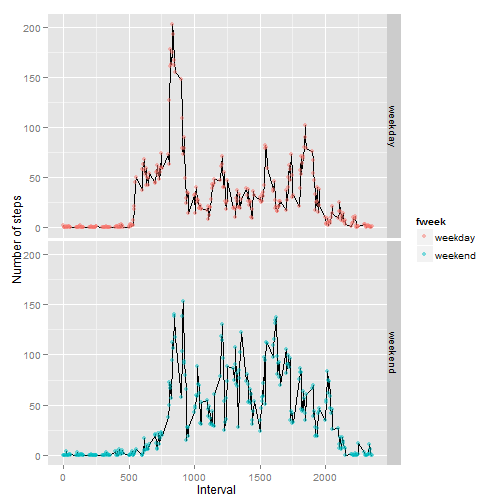
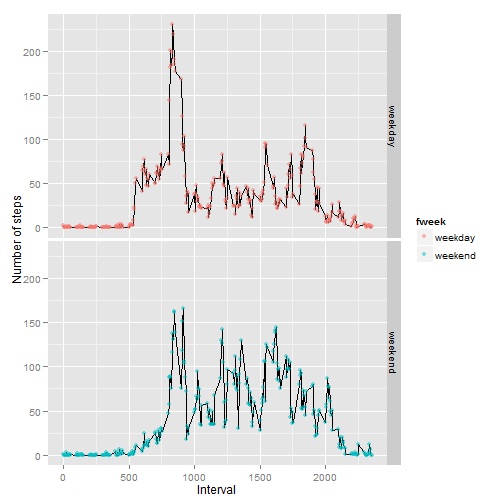
changes to final

diff --git a/PA1_template.html b/PA1_template.html
@@ -205,10 +205,10 @@ median_steps&lt;-median(as.vector(total))
 <h2>What is the average daily activity pattern?</h2>
 
 <pre><code class="r">average_activity&lt;-tapply(data_preprocess$steps,data_preprocess$interval,mean,simplify=FALSE);
-plot(names(average_activity),average_activity,type=&quot;l&quot;,xaxt = &quot;n&quot;,xlab=&quot;interval&quot;,ylab=&quot;average steps&quot;);
+plot(names(average_activity),average_activity,type=&quot;l&quot;,xlab=&quot;interval&quot;,ylab=&quot;average steps&quot;);
 </code></pre>
 
[2 lines of base64/hex data omitted]
 
 <h3>The maximum number of steps is with interval of 835</h3>
 
@@ -216,26 +216,41 @@ plot(names(average_activity),average_activity,type=&quot;l&quot;,xaxt = &quot;n&
 
 <pre><code class="r">ip_missing&lt;-nrow(data)-sum(complete.cases(data))
 data_without_NA&lt;-data
-#replace NA&#39;s with 0.
-data_without_NA[!complete.cases(data_without_NA$steps),1]&lt;-0;
+#replace NA&#39;s with average daily activity pattern.
+df&lt;-data.frame(interval=names(average_activity),steps=average_activity)
+count&lt;-0;
+for(i in 1:nrow(data_without_NA)){
+    if(is.na(data_without_NA$steps[i])){
+      for(j in 1:nrow(df)){
+        if(df$interval[j]==data_without_NA$interval[i]){
+          count=count+1;
+          data_without_NA$steps[i]&lt;-as.numeric(df$steps[j]);     
+          break;
+        }        
+      }    
+    }
+  }
 total&lt;-tapply(data_without_NA$steps,data_without_NA$date,sum);
 plot(1:length(total),as.vector(total),type=&quot;h&quot;,col = &quot;green&quot;, lwd = 4,xlab=&quot;days&quot;,ylab=&quot;steps&quot;);
 </code></pre>
 
[2 lines of base64/hex data omitted]
 
 <pre><code class="r">mean_steps&lt;-mean(as.vector(total))
 median_steps&lt;-median(as.vector(total))
 </code></pre>
 
+<h3>We have replaced NA&#39;s in &ldquo;steps&rdquo; with average daily activity pattern.</h3>
+
 <h3>The number of missing values are 2304.</h3>
 
-<h3>The new mean is 9354.2295 and median is 1.0395 &times; 10<sup>4</sup>.</h3>
+<h3>The new mean is 1.0766 &times; 10<sup>4</sup> and median is 1.0766 &times; 10<sup>4</sup>.</h3>
 
 <h3>Few points to note</h3>
 
 <ul>
-<li>The mean and median changed i.e. decreased as of no NA&#39;s.</li>
+<li>The mean remains same.</li>
+<li>The median is changed.</li>
 <li>Days in the histogram have increased because of no NA&#39;s.</li>
 </ul>
 
@@ -260,7 +275,7 @@ g&lt;-g+labs(x = &quot;Interval&quot;, y = &quot;Number of steps&quot;)
 print(g)
 </code></pre>
 
[2 lines of base64/hex data omitted]
 
 </body>
 

diff --git a/PA1_template.md b/PA1_template.md
@@ -29,7 +29,7 @@ median_steps<-median(as.vector(total))
 
 ```r
 average_activity<-tapply(data_preprocess$steps,data_preprocess$interval,mean,simplify=FALSE);
-plot(names(average_activity),average_activity,type="l",xaxt = "n",xlab="interval",ylab="average steps");
+plot(names(average_activity),average_activity,type="l",xlab="interval",ylab="average steps");
 ```
 
 ![plot of chunk daily](figure/daily.png) 
@@ -40,8 +40,20 @@ plot(names(average_activity),average_activity,type="l",xaxt = "n",xlab="interval
 ```r
 ip_missing<-nrow(data)-sum(complete.cases(data))
 data_without_NA<-data
-#replace NA's with 0.
-data_without_NA[!complete.cases(data_without_NA$steps),1]<-0;
+#replace NA's with average daily activity pattern.
+df<-data.frame(interval=names(average_activity),steps=average_activity)
+count<-0;
+for(i in 1:nrow(data_without_NA)){
+    if(is.na(data_without_NA$steps[i])){
+      for(j in 1:nrow(df)){
+        if(df$interval[j]==data_without_NA$interval[i]){
+          count=count+1;
+          data_without_NA$steps[i]<-as.numeric(df$steps[j]);     
+          break;
+        }        
+      }    
+    }
+  }
 total<-tapply(data_without_NA$steps,data_without_NA$date,sum);
 plot(1:length(total),as.vector(total),type="h",col = "green", lwd = 4,xlab="days",ylab="steps");
 ```
@@ -52,10 +64,12 @@ plot(1:length(total),as.vector(total),type="h",col = "green", lwd = 4,xlab="days
 mean_steps<-mean(as.vector(total))
 median_steps<-median(as.vector(total))
 ```
+### We have replaced NA's in "steps" with average daily activity pattern.
 ### The number of missing values are 2304.
-### The new mean is 9354.2295 and median is 1.0395 &times; 10<sup>4</sup>.
+### The new mean is 1.0766 &times; 10<sup>4</sup> and median is 1.0766 &times; 10<sup>4</sup>.
 ### Few points to note 
-* The mean and median changed i.e. decreased as of no NA's.
+* The mean remains same.
+* The median is changed.
 * Days in the histogram have increased because of no NA's.
 
 ## Are there differences in activity patterns between weekdays and weekends?
